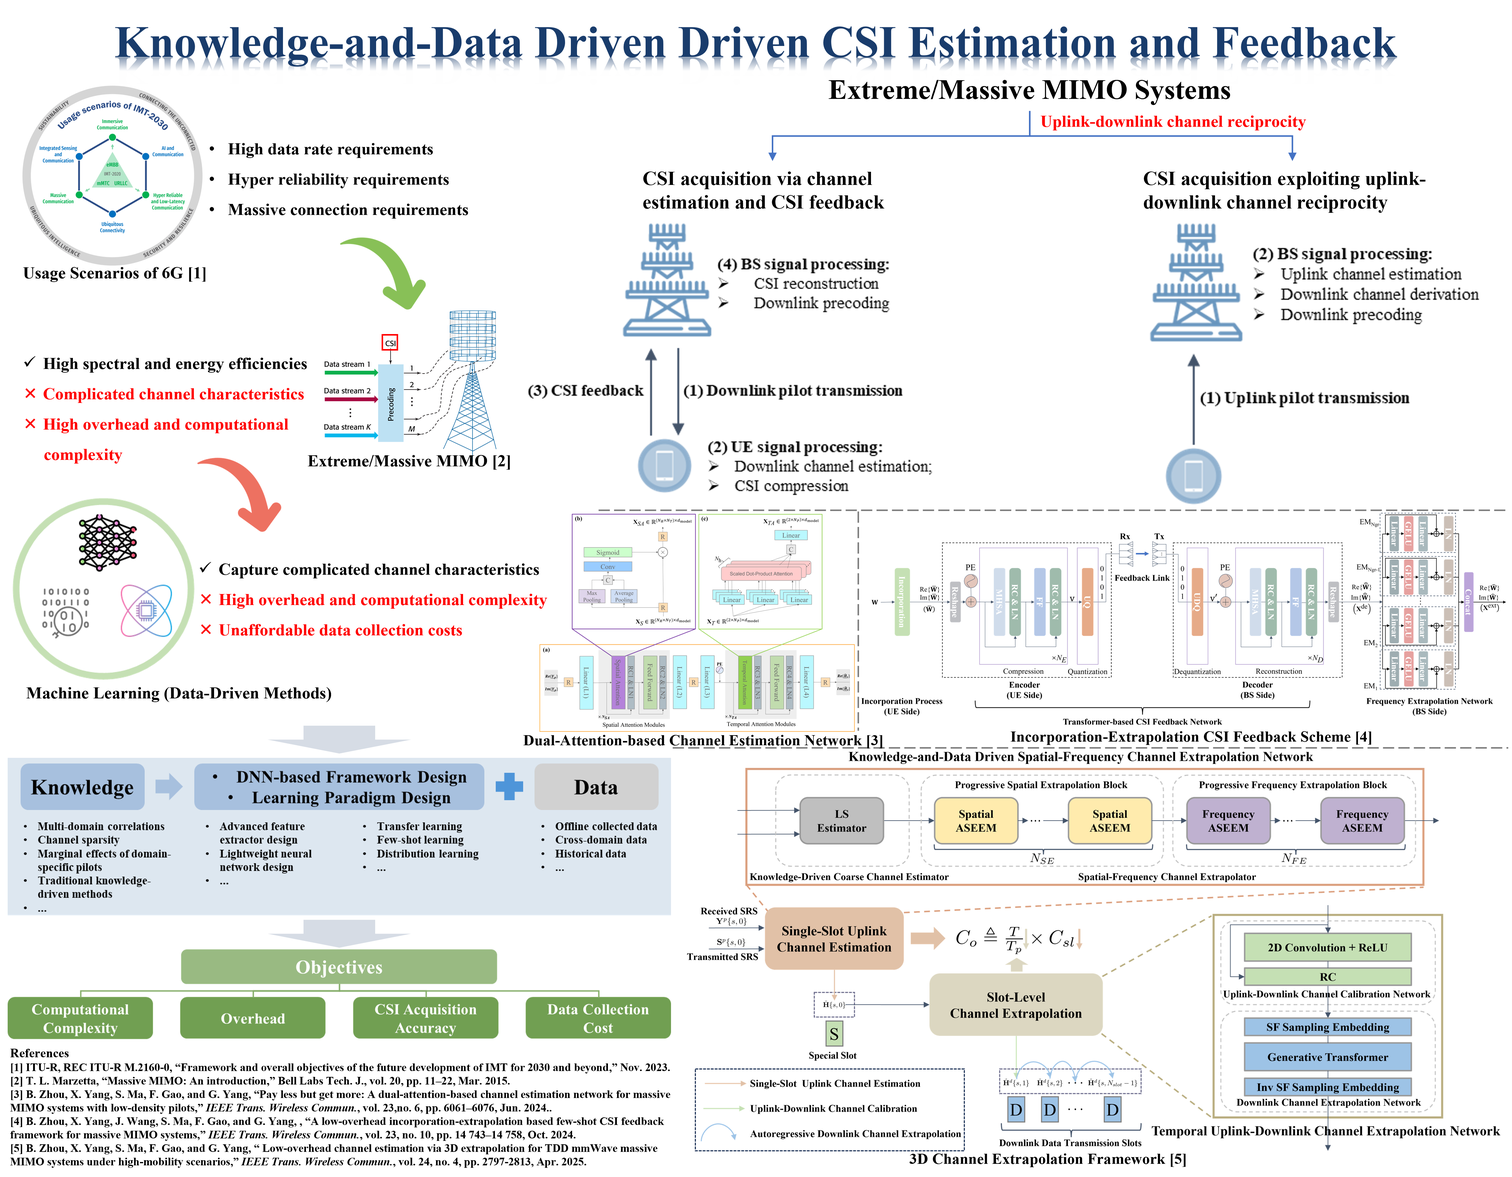
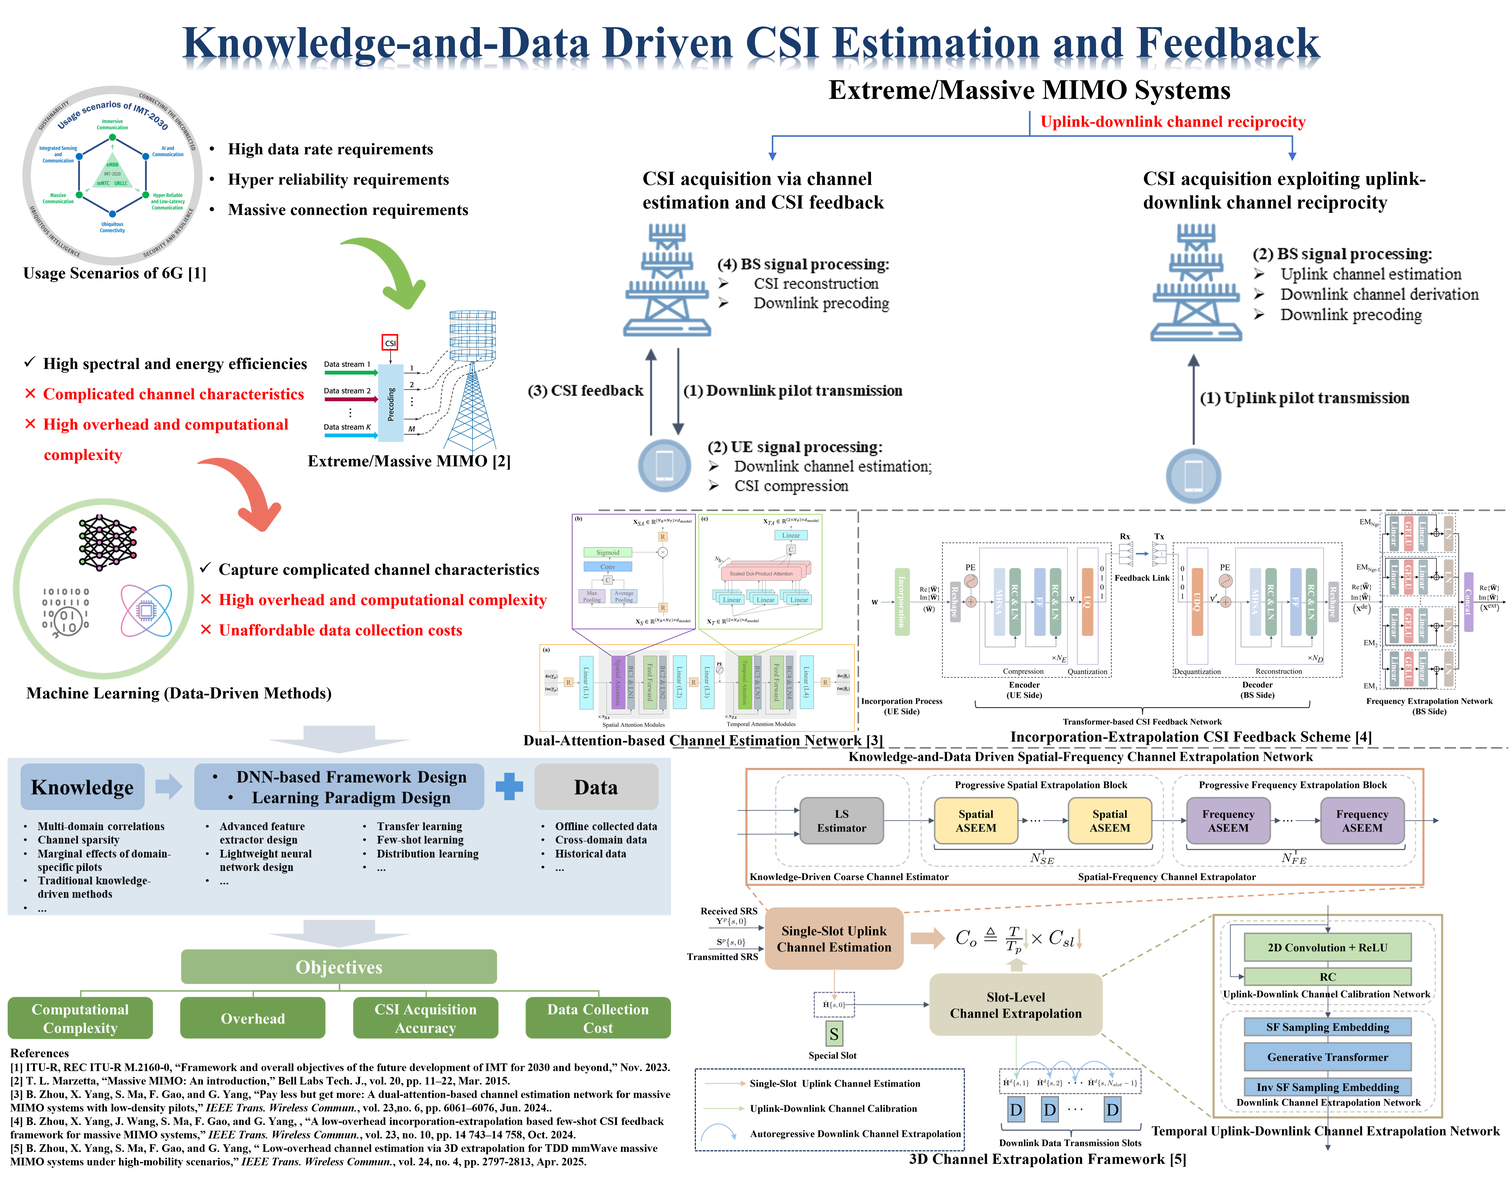
update

Changed region(s): [[0.0624, 0.0, 0.9358, 0.0624]]

diff --git a/_pages/about.md b/_pages/about.md
@@ -19,16 +19,20 @@ redirect_from:
 
 Binggui Zhou (周炳贵) received his B.Eng. degree in Electrical Engineering from Jinan University, Zhuhai, China, in 2018, and his M.Sc. degree and Ph.D. degree in Electrical and Computer Engineering from the University of Macau, Macao, China, in 2021 and 2024, respectively, with the State Key Laboratory of Internet of Things for Smart City (SKL-IOTSC) and under the supervision of [Prof. Shaodan Ma (SMIEEE, IEEE ComSoc Distinguished Lecturer)](https://www.fst.um.edu.mo/personal/shaodanma/). He is currently a Postdoctoral Research Associate with the Department of Electrical and Electronic Engineering, Imperial College London, London, United Kingdom, under the guidance of [Prof. Bruno Clerckx (FIEEE, FIET, IEEE ComSoc Distinguished Lecturer)](https://profiles.imperial.ac.uk/b.clerckx).
 
-Dr. Zhou's research interests include machine learning and data science as well as their applications in wireless communications and smart healthcare. He has Published Version more than 20 papers in top journals and flagship international conferences (e.g., IEEE TWC, KNOSYS, IEEE IOT-J, IEEE TVT, etc.) with total <a href='https://scholar.google.com/citations?user=2RwBacMAAAAJ&hl=en'><img src='https://img.shields.io/endpoint?logo=Google%20Scholar&url=https%3A%2F%2Fraw.githubusercontent.com%2Fbgzhou%2Fbgzhou.github.io%2Fgoogle-scholar-stats%2Fgs_data_shieldsio.json&labelColor=f6f6f6&color=9cf&style=flat&label=citations'></a> citations. Dr. Zhou has served as a Technical Program Committee member for several flagship international conferences (e.g., IEEE VTC) and as a reviewer for multiple top-tier journals and flagship international conferences (e.g., IEEE WCM, IEEE CM, IEEE JSAC, IEEE TWC, IEEE TMC, IEEE TCOM, KNOSYS, IPM, etc.).
+Dr. Zhou's research interests include machine learning and data science as well as their applications in wireless communications and smart healthcare. He has Published Version more than 20 papers in top journals and flagship international conferences (e.g., IEEE TWC, KBS, IEEE IOT-J, IEEE TVT, etc.) with total <a href='https://scholar.google.com/citations?user=2RwBacMAAAAJ&hl=en'><img src='https://img.shields.io/endpoint?logo=Google%20Scholar&url=https%3A%2F%2Fraw.githubusercontent.com%2Fbgzhou%2Fbgzhou.github.io%2Fgoogle-scholar-stats%2Fgs_data_shieldsio.json&labelColor=f6f6f6&color=9cf&style=flat&label=citations'></a> citations. Dr. Zhou has served as a Technical Program Committee member for several flagship international conferences (e.g., IEEE VTC) and as a reviewer for multiple top-tier journals and flagship international conferences (e.g., IEEE WCM, IEEE CM, IEEE JSAC, IEEE TWC, IEEE TMC, IEEE TCOM, KBS, IPM, etc.).
 
 # 🔥 News
-- 2025-06-18 **<font color=Blue>New preprint</font>**: One paper titled [Out-of-Band Modality Synergy Based Multi-User Beam Prediction and Proactive BS Selection with Zero Pilot Overhead](https://arxiv.org/abs/2506.15136) has been submitted to IEEE journal for possible publication.
+- 2025-10-17 **<font color=Blue>New submission</font>**: One paper titled [Beyond-Diagonal RIS Under Non-Idealities: Learning-Based Architecture Discovery and Optimization](https://arxiv.org/abs/2510.15701) has been submitted to IEEE journal for possible publication.
 
-- 2025-05-21 **<font color=Fuchsia>New publication</font>**: One paper titled [A Deep Time-Frequency Augmented Wind Power Forecasting Model](https://www.sciencedirect.com/science/article/pii/S0960148125012121) has been accepted by ***Renewable Energy***.
+- 2025-09-05 **<font color=Blue>New submission</font>**: One co-authored paper titled “Channel Recovery for UPA-assisted Massive MlMO Systems with Asymmetrical Uplink and Downlink Transceivers” has been submitted to **IEEE Internet of Things Journal** for possible publication.
 
-- 2025-04-27 **<font color=Fuchsia>New publication</font>**: One paper titled [Robust Beamforming Design and Antenna Selection for Dynamic HRIS-aided MISO Systems](https://ieeexplore.ieee.org/abstract/document/10981669) has been accepted by ***IEEE Transactions on Vehicular Technology***.
+- 2025-06-18 **<font color=Blue>New submission</font>**: One co-authored paper titled [Out-of-Band Modality Synergy Based Multi-User Beam Prediction and Proactive BS Selection with Zero Pilot Overhead](https://arxiv.org/abs/2506.15136) has been submitted to IEEE journal for possible publication.
 
-- 2025-01-04 **<font color=Fuchsia>New publication</font>**: One paper titled [Throughput Maximization of HARQ-IR for ISAC](https://ieeexplore.ieee.org/document/10833859) has been accepted by ***IEEE Communications Letters***.
+- 2025-05-21 **<font color=Fuchsia>New publication</font>**: One co-authored paper titled [A Deep Time-Frequency Augmented Wind Power Forecasting Model](https://www.sciencedirect.com/science/article/pii/S0960148125012121) has been accepted by ***Renewable Energy***.
+
+- 2025-04-27 **<font color=Fuchsia>New publication</font>**: One co-authored paper titled [Robust Beamforming Design and Antenna Selection for Dynamic HRIS-aided MISO Systems](https://ieeexplore.ieee.org/abstract/document/10981669) has been accepted by ***IEEE Transactions on Vehicular Technology***.
+
+- 2025-01-04 **<font color=Fuchsia>New publication</font>**: One co-authored paper titled [Throughput Maximization of HARQ-IR for ISAC](https://ieeexplore.ieee.org/document/10833859) has been accepted by ***IEEE Communications Letters***.
 
 
 <details>
@@ -37,7 +41,7 @@ Dr. Zhou's research interests include machine learning and data science as well 
   <h3>2024</h3>
 
   <ul>
-  <li>2024-10-31 <strong><span style="color: Blue;">New preprint</span></strong>: One paper titled <a href="https://arxiv.org/abs/2410.23919">Intelligent Angle Map-based Beam Alignment for RIS-aided mmWave Communication Networks</a> has been submitted to IEEE journal for possible publication.</li>
+  <li>2024-10-31 <strong><span style="color: Blue;">New submission</span></strong>: One paper titled <a href="https://arxiv.org/abs/2410.23919">Intelligent Angle Map-based Beam Alignment for RIS-aided mmWave Communication Networks</a> has been submitted to IEEE journal for possible publication.</li>
 
   <li>2024-12-27 <strong><span style="color: Fuchsia;">New publication</span></strong>: One paper titled <a href="https://ieeexplore.ieee.org/document/10836149">Low-Overhead Channel Estimation via 3D Extrapolation for TDD mmWave Massive MIMO Systems Under High-Mobility Scenarios</a> has been accepted by <em>IEEE Transactions on Wireless Communications</em>.</li>
 
@@ -51,11 +55,11 @@ Dr. Zhou's research interests include machine learning and data science as well 
 
   <li>2024-06-19 <strong><span style="color: Fuchsia;">New publication</span></strong>: One paper titled <a href="https://ieeexplore.ieee.org/document/10600118">A Low-Overhead Incorporation-Extrapolation Based Few-Shot CSI Feedback Framework for Massive MIMO Systems</a> has been accepted by <em>IEEE Transactions on Wireless Communications</em>.</li>
 
-  <li>2024-06-14 <strong><span style="color: Blue;">New preprint</span></strong>: <a href="https://arxiv.org/abs/2406.08887">Low-Overhead Channel Estimation via 3D Extrapolation for TDD mmWave Massive MIMO Systems Under High-Mobility Scenarios</a>.</li>
+  <li>2024-06-14 <strong><span style="color: Blue;">New submission</span></strong>: <a href="https://arxiv.org/abs/2406.08887">Low-Overhead Channel Estimation via 3D Extrapolation for TDD mmWave Massive MIMO Systems Under High-Mobility Scenarios</a>.</li>
   
   <li>2024-05-09 <strong><span style="color: Red;">Recognition</span></strong>: Our paper titled <a href="https://ieeexplore.ieee.org/abstract/document/9904944">Natural Language Processing for Smart Healthcare</a> has been listed as an 🔥 <em><span style="color: Red;">ESI Hot Paper</span></em>.</li>
 
-  <li>2024-04-02 <strong><span style="color: Blue;">New preprint</span></strong>: <a href="https://arxiv.org/abs/2404.00598">Robust Beamforming Design and Antenna Selection for Dynamic HRIS-aided Massive MIMO Systems</a>.</li>
+  <li>2024-04-02 <strong><span style="color: Blue;">New submission</span></strong>: <a href="https://arxiv.org/abs/2404.00598">Robust Beamforming Design and Antenna Selection for Dynamic HRIS-aided Massive MIMO Systems</a>.</li>
 
   <li>2024-02-08 <strong><span style="color: Red;">Recognition</span></strong>: Our paper titled <a href="https://ieeexplore.ieee.org/abstract/document/9904944">Natural Language Processing for Smart Healthcare</a> has been listed as a <em><span style="color: Red;">Popular Article</span></em> of <em>IEEE Reviews in Biomedical Engineering</em> (IF 17.6) since Feb. 2024.</li>
   </ul>
@@ -77,30 +81,37 @@ Dr. Zhou's research interests include machine learning and data science as well 
 ### <font color=CornflowerBlue>Wireless Communications</font>
 
 **Conference TPC Member**
+- IEEE VTC2025-Fall, WCSP 2025, IEEE VTC2025-Spring, IEEE VTC2024-Spring, etc.
+
+<!-- - WCSP 2025 - Symposium: AI for Communications and Networking
 - IEEE VTC2025-Fall - Tracks: Signal Processing for Wireless Communications; Multiple Antennas and Cooperative Communications; Recent Results
 - IEEE VTC2025-Spring - Track: Multiple Antennas and Cooperative Communications
-- IEEE VTC2024-Spring - Track: Signal Transmission and Reception
+- IEEE VTC2024-Spring - Track: Signal Transmission and Reception -->
 
 **Journal Referee**
-- IEEE Wireless Communications (WCM)
-- IEEE Communications Magazine (CM)
+ - IEEE JSAC, IEEE TWC, IEEE TMC, IEEE TCOM, IEEE WCM, IEEE CM, IEEE Network, IEEE IoT-J, IEEE TCCN, IEEE TVT, IEEE WCL, etc.
+
+<!-- 
 - IEEE Journal on Selected Areas in Communications (JSAC)
 - IEEE Transactions on Wireless Communications (TWC)
 - IEEE Transactions on Mobile Computing (TMC)
 - IEEE Transactions on Communications (TCOM)
+- IEEE Wireless Communications (WCM)
+- IEEE Communications Magazine (CM)
+- IEEE Network
 - IEEE Internet of Things Journal (IOT-J)
 - IEEE Transactions on Cognitive Communications and Networking (TCCN)
 - IEEE Transactions on Vehicular Technology (TVT)
-- IEEE Wireless Communication Letters (WCL)
-
-<!-- - IEEE Internet of Things Magazine (IoTM) -->
+- IEEE Wireless Communication Letters (WCL) -->
 
 **Conference Reviewer**
-- IEEE International Conference on Communications (ICC)
+-  IEEE ICC, IEEE GLOBECOM, IEEE VTC, IEEE APCC, IEEE/CIC ICCC, etc.
+
+<!-- - IEEE International Conference on Communications (ICC)
 - IEEE Global Communications Conference (GLOBECOM)
 - IEEE Vehicular Technology Conference (VTC)
 - IEEE Asia-Pacific Conference on Communications (APCC)
-- IEEE/CIC International Conference on Communications in China (ICCC)
+- IEEE/CIC International Conference on Communications in China (ICCC) -->
 
 **Standardization**
 - Member of the University of Macau (Member Unit) Research Team within the Wireless Technology Group of the IMT-2030 (6G) Promotion Group founded by the Ministry of Industry and Information Technology (MIIT) of China
@@ -108,24 +119,31 @@ Dr. Zhou's research interests include machine learning and data science as well 
 ### <font color=CornflowerBlue>Machine Learning and Data Science</font>
 
 **Journal Referee**
-- Knowledge-Based Systems (KNOSYS)
+- IEEE TASE, KBS, EAAI, IPM, ESWA, JCLEPRO, etc.
+
+<!-- - IEEE Transactions on Automation Science and Engineering (TASE)
+- Knowledge-Based Systems (KBS)
+- Engineering Applications of Artificial Intelligence (EAAI)
 - Information Processing and Management (IPM)
+- Expert Systems with Applications (ESWA)
 - Journal of Cleaner Production (JCLEPRO)
-- Journal of Supercomputing
+- Ain Shams Engineering Journal -->
 
 **Conference Reviewer**
-- International Conference on Learning Representations (ICLR) Workshops
+- ICLR, IJCNN, MICCAI, etc.
+
+<!-- - International Conference on Learning Representations (ICLR)
 - International Joint Conference on Neural Networks (IJCNN)
+- International Conference on Medical Image Computing and Computer Assisted Intervention (MICCAI) -->
 
-
-### <font color=CornflowerBlue>Smart Healthcare</font>
+<!-- ### <font color=CornflowerBlue>Smart Healthcare</font>
 **Journal Referee**
 - Computers in Biology and Medicine (CIBM)
 - Computer Methods in Biomechanics and Biomedical Engineering
    
 **Conference Reviewer**
 - International Conference on Medical Image Computing and Computer Assisted Intervention (MICCAI)
-
+ -->
 
 # 🏆 Recognition and Awards
 - May 2023, Winning Prize of the First 6G Intelligent Wireless Communication System Competition (Ranking 9/1252), as the Captain
@@ -193,7 +211,7 @@ Dr. Zhou's research interests include machine learning and data science as well 
 
 ### <font color=CornflowerBlue>Machine Learning and Data Science</font>
 
-<div class='paper-box'><div class='paper-box-image'><div><div class='badge'>KNOSYS</div><img src='images/HSTGANet.png' alt='sym' width='100%'></div></div>
+<div class='paper-box'><div class='paper-box-image'><div><div class='badge'>KBS</div><img src='images/HSTGANet.png' alt='sym' width='100%'></div></div>
 <div class='paper-box-text' markdown='1'>
 
 [A Graph-Attention Based Spatial-Temporal Learning Framework for Tourism Demand Forecasting](https://www.sciencedirect.com/science/article/pii/S0950705123000254)
@@ -249,11 +267,15 @@ Dr. Zhou's research interests include machine learning and data science as well 
 
 ### <font color=CornflowerBlue>Wireless Communications</font>
 
-**[J12]** Kehui Li, **Binggui Zhou**, Jiajia Guo, Feifei Gao, Guanghua Yang, and Shaodan Ma, “Out-of-Band Modality Synergy Based Multi-User Beam Prediction and Proactive BS Selection with Zero Pilot Overhead”, submitted to **IEEE Transactions on Communications**, under review. [Preprint](https://arxiv.org/abs/2506.15136)
+**[J14]** **Binggui Zhou** and Bruno Clerckx, “Beyond-Diagonal RIS Under Non-Idealities: Learning-Based Architecture Discovery and Optimization,” submitted to **IEEE Transactions on Wireless Communications**. [Preprint](https://arxiv.org/abs/2510.15701)
 
-**[J11]** Hao Xia, Qing Xue, Yanping Liu, **Binggui Zhou**, Meng Hua, Qianbin Chen, “Intelligent Angle Map-based Beam Alignment for RIS-aided mmWave Communication Networks,” submitted to **IEEE Transactions on Network Science and Engineering**, under review. [Preprint](https://arxiv.org/abs/2410.23919)
+**[J13]** Xi Yang, Dahong Du, Ting Liu, **Binggui Zhou**, and Shaodan Ma, “Channel Recovery for UPA-assisted Massive MlMO Systems with Asymmetrical Uplink and Downlink Transceivers,” submitted to **IEEE Internet of Things Journal**, revise and resubmit.
 
-**[J10]** Jintao Wang, **Binggui Zhou**, Chengzhi Ma, Shiqi Gong, Guanghua Yang, and Shaodan Ma, “Robust Beamforming Design and Antenna Selection for Dynamic HRIS-aided MISO Systems,” accepted by **IEEE Transactions on Vehicular Technology**. **(JCR Q1, IF: 6.1)** [Published Version](https://ieeexplore.ieee.org/abstract/document/10981669) \| [Preprint](https://arxiv.org/abs/2404.00598)
+**[J12]** Kehui Li, **Binggui Zhou**, Jiajia Guo, Feifei Gao, Guanghua Yang, and Shaodan Ma, “Out-of-Band Modality Synergy Based Multi-User Beam Prediction and Proactive BS Selection with Zero Pilot Overhead”, submitted to **IEEE Transactions on Communications**, major revision. [Preprint](https://arxiv.org/abs/2506.15136)
+
+**[J11]** Hao Xia, Qing Xue, Yanping Liu, **Binggui Zhou**, Meng Hua, Qianbin Chen, “Intelligent Angle Map-based Beam Alignment for RIS-aided mmWave Communication Networks,” submitted to **IEEE Transactions on Network Science and Engineering**, major revision. [Preprint](https://arxiv.org/abs/2410.23919)
+
+**[J10]** Jintao Wang, **Binggui Zhou**, Chengzhi Ma, Shiqi Gong, Guanghua Yang, and Shaodan Ma, “Robust Beamforming Design and Antenna Selection for Dynamic HRIS-aided MISO Systems,” **IEEE Transactions on Vehicular Technology**, vol. 74, no. 9, pp. 14943-14948, Sep. 2025. **(JCR Q1, IF: 6.1)** [Published Version](https://ieeexplore.ieee.org/abstract/document/10981669) \| [Preprint](https://arxiv.org/abs/2404.00598)
 
 **[J9]** **Binggui Zhou**, Xi Yang, Shaodan Ma, Feifei Gao, and Guanghua Yang, “Low-Overhead Channel Estimation via 3D Extrapolation for TDD mmWave Massive MIMO Systems Under High-Mobility Scenarios,” **IEEE Transactions on Wireless Communications**, vol. 24, no. 4, pp. 2797-2813, Apr. 2025. **(JCR Q1, IF: 8.9)** [Published Version](https://ieeexplore.ieee.org/document/10836149) \| [Preprint](https://arxiv.org/abs/2406.08887)
 
@@ -287,7 +309,9 @@ Dr. Zhou's research interests include machine learning and data science as well 
 
 <!-- **[J5]** Yunxuan Dong, **Binggui Zhou**, and Guanghua Yang, “Dynamic Spatial-temporal Wind Power Forecasting with a Novel Attention Mechanism,” submitted to **IEEE Internet of Things Journal**. -->
 
-**[J4]** Yunxuan Dong, **Binggui Zhou**, Hongcai Zhang, Guanghua Yang, and Shaodan Ma, “A Deep Time-Frequency Augmented Wind Power Forecasting Model,” accepted by **Renewable Energy**. **(JCR Q1, IF: 9.0)** [Published Version](https://www.sciencedirect.com/science/article/pii/S0960148125012121)
+**[J5]** Yunxuan Dong, **Binggui Zhou**, Hongcai Zhang, Guanghua Yang, and Shaodan Ma, “A Deep Time-Frequency Augmented Wind Power Forecasting Model,” **Renewable Energy**, vol. 256, p. 123550, Jan. 2026. **(JCR Q1, IF: 9.0)** [Published Version](https://www.sciencedirect.com/science/article/pii/S0960148125012121)
+
+**[J4]** **Binggui Zhou**, Guanghua Yang, Zheng Shi, and Shaodan Ma, “Natural Language Processing for Smart Healthcare,” **IEEE Reviews in Biomedical Engineering**, vol. 17, pp. 4-18, Jan. 2024. **(JCR Q1, IF: 17.2, ESI Hot Paper, ESI Highly Cited Paper, and Popular Article & Featured Article of IEEE Reviews in Biomedical Engineering)** [Published Version](https://ieeexplore.ieee.org/abstract/document/9904944) \| [Preprint](https://arxiv.org/abs/2110.15803)
 
 **[J3]** Yunxuan Dong&dagger;, **Binggui Zhou**&dagger;, Guanghua Yang, Fen Hou, Zheng Hu, and Shaodan Ma, “A Novel Model for Tourism Demand Forecasting with Spatial–Temporal Feature Enhancement and Image-Driven Method,” **Neurocomputing**, vol. 556, p. 126663, Nov. 2023. **(JCR Q1, IF: 6.0)** [Published Version](https://www.sciencedirect.com/science/article/pii/S0925231223007865)
 
@@ -302,11 +326,11 @@ Dr. Zhou's research interests include machine learning and data science as well 
 
 **[C1]** Nan Lin, **Binggui Zhou**, Guanghua Yang, and Shaodan Ma, “Multi-head Attention Networks for Nonintrusive Load Monitoring,” in **Proceedings of 2020 IEEE International Conference on Signal Processing, Communications and Computing (ICSPCC)**, pp. 1-5, 2020.
 
-**[P1]** **Binggui Zhou**, Guanghua Yang, Zheng Shi, Suxiu Xu, Zheng Hu, and Haitao Jiang. “A Spatial-temporal Tourism Demand Forecasting Method Based on Graph Convolution and Attention Mechanism,” **Chinese Patent Application**, Aug. 2022.
+**[P1]** **Binggui Zhou**, Guanghua Yang, Zheng Shi, Suxiu Xu, Zheng Hu, and Haitao Jiang. “A Spatial-temporal Tourism Demand Forecasting Method Based on Graph Convolution and Attention Mechanism,” **Chinese Patent Grant**, CN115438837B, Sep. 2025.
 
-### <font color=CornflowerBlue>Smart Healthcare</font>
+<!-- ### <font color=CornflowerBlue>Smart Healthcare</font>
 
-**[J1]** **Binggui Zhou**, Guanghua Yang, Zheng Shi, and Shaodan Ma, “Natural Language Processing for Smart Healthcare,” **IEEE Reviews in Biomedical Engineering**, vol. 17, pp. 4-18, Jan. 2024. **(JCR Q1, IF: 17.2, ESI Hot Paper, ESI Highly Cited Paper, and Popular Article & Featured Article of IEEE Reviews in Biomedical Engineering)** [Published Version](https://ieeexplore.ieee.org/abstract/document/9904944) \| [Preprint](https://arxiv.org/abs/2110.15803)
+**[J1]** **Binggui Zhou**, Guanghua Yang, Zheng Shi, and Shaodan Ma, “Natural Language Processing for Smart Healthcare,” **IEEE Reviews in Biomedical Engineering**, vol. 17, pp. 4-18, Jan. 2024. **(JCR Q1, IF: 17.2, ESI Hot Paper, ESI Highly Cited Paper, and Popular Article & Featured Article of IEEE Reviews in Biomedical Engineering)** [Published Version](https://ieeexplore.ieee.org/abstract/document/9904944) \| [Preprint](https://arxiv.org/abs/2110.15803) -->
 
 ### <font color=CornflowerBlue>Miscellaneous</font>
 
@@ -336,7 +360,7 @@ Dr. Zhou's research interests include machine learning and data science as well 
 
 ## <font color=MediumAquaMarine>Research Highlights</font>
 
-### <font color=CornflowerBlue>1. Knowledge-and-Data Driven Driven CSI Acquisition</font>
+### <font color=CornflowerBlue>1. Knowledge-and-Data Driven CSI Acquisition</font>
 
 <img src='images/KDD_CSI.png' width = "1200" alt="" align=center />
 
@@ -380,7 +404,6 @@ The dual-attention-based CSI feedback model (left) and the quantization ensemble
 <img src='images/6GAICompetition_CSIFeedback.png' width = "1200" alt="" align=center />
 
 
-
 <!-- ### 3. Machine Learning and Data Science
 
 ### 4. Smart Healthcare -->
@@ -389,6 +412,6 @@ The dual-attention-based CSI feedback model (left) and the quantization ensemble
 
 ## Collaborators
 
-I collaborate closely with [Prof. Shaodan Ma (Professor, University of Macau)](https://scholar.google.co.uk/citations?user=43edNugAAAAJ&hl=en), [Prof. Guanghua Yang (Professor, Jinan University)](https://scholar.google.co.uk/citations?user=0GaD5AEAAAAJ&hl=en), [Prof. Feifei Gao (Professor, Tsinghua University)](https://scholar.google.com/citations?user=_VDYtKMAAAAJ&hl=en), [Prof. Xi Yang (Professor, East China Normal University)](https://faculty.ecnu.edu.cn/_s15/yx2/main.psp), [Prof. Zheng Shi (Professor, Jinan University)](https://scholar.google.com/citations?user=_DQ7HfQAAAAJ&hl=en), [Prof. Qing Xue (Associate Professor, Chongqing University of Posts and Telecommunications)](https://scholar.google.com/citations?user=kK2thisAAAAJ&hl=zh-CN), and [Dr. Jintao Wang (Postdoctoral Researcher, University of Macau)](https://scholar.google.com/citations?hl=zh-CN&user=dkQrb10AAAAJ) on wireless communications, and with [Prof. Yunxuan Dong (Assistant Professor, Guangxi University)](https://scholar.google.com/citations?user=dYcYJfUAAAAJ&hl=en&authuser=1) on applied data mining.
+I collaborate closely with [Prof. Shaodan Ma (Professor, University of Macau)](https://scholar.google.co.uk/citations?user=43edNugAAAAJ&hl=en), [Prof. Guanghua Yang (Professor, Jinan University)](https://scholar.google.co.uk/citations?user=0GaD5AEAAAAJ&hl=en), [Prof. Feifei Gao (Professor, Tsinghua University)](https://scholar.google.com/citations?user=_VDYtKMAAAAJ&hl=en), [Prof. Xi Yang (Professor, East China Normal University)](https://faculty.ecnu.edu.cn/_s15/yx2/main.psp), [Prof. Zheng Shi (Professor, Jinan University)](https://scholar.google.com/citations?user=_DQ7HfQAAAAJ&hl=en), [Prof. Qing Xue (Associate Professor, Chongqing University of Posts and Telecommunications)](https://scholar.google.com/citations?user=kK2thisAAAAJ&hl=zh-CN), [Prof. Weiqiang Tan (Professor, Guangzhou University)](https://aicom.gzhu.edu.cn/info/1160/1033.htm), and [Dr. Jintao Wang (Postdoctoral Researcher, University of Macau)](https://scholar.google.com/citations?hl=zh-CN&user=dkQrb10AAAAJ) on wireless communications, and with [Prof. Yunxuan Dong (Assistant Professor, Guangxi University)](https://scholar.google.com/citations?user=dYcYJfUAAAAJ&hl=en&authuser=1) on applied data mining.
 
 Feel free to [drop me an email](mailto:binggui.zhou@imperial.ac.uk) if you would like to collaborate with me.
